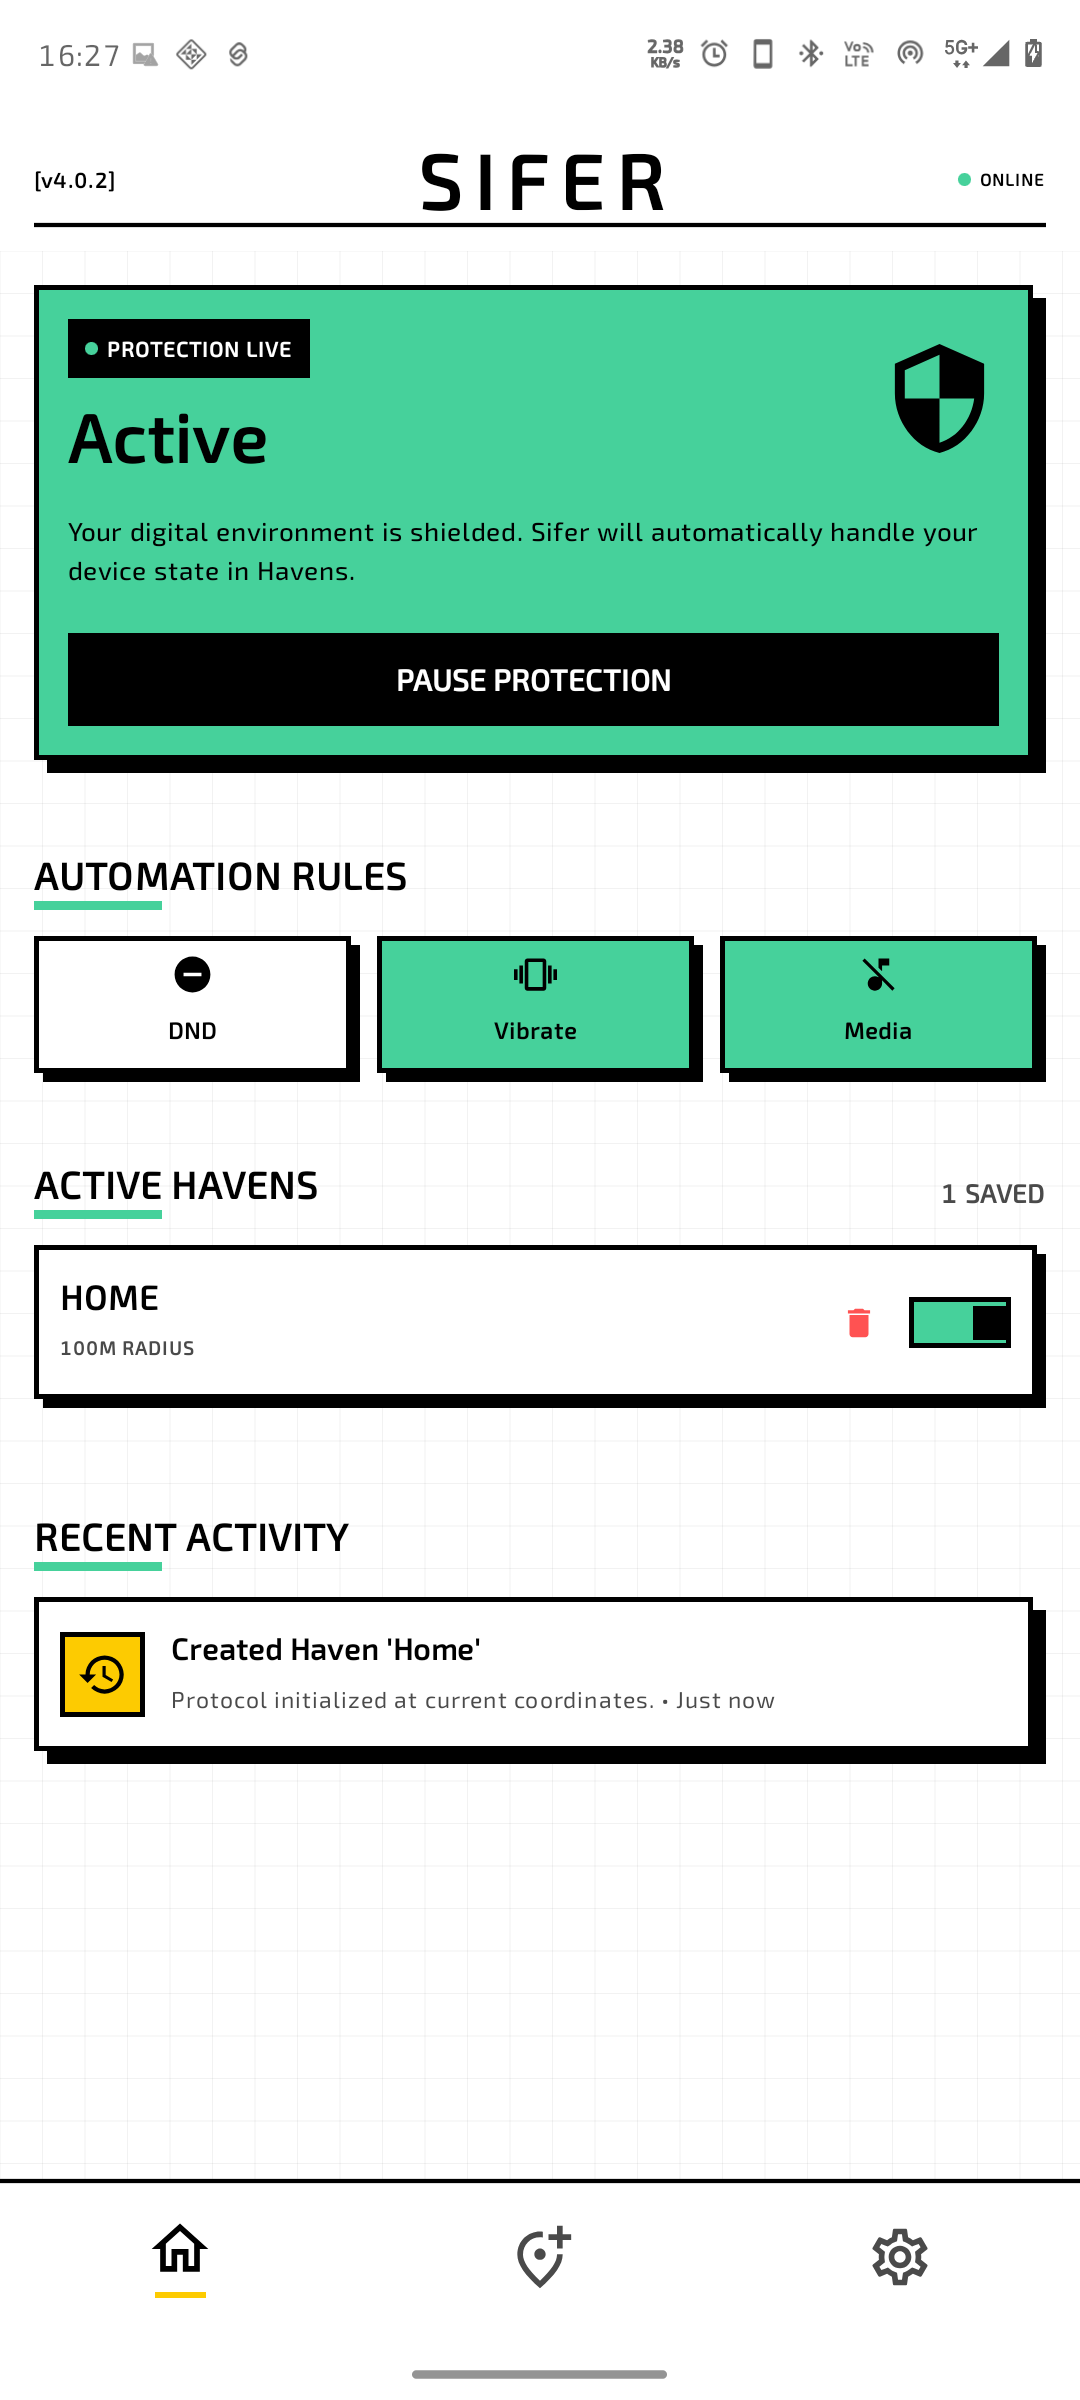
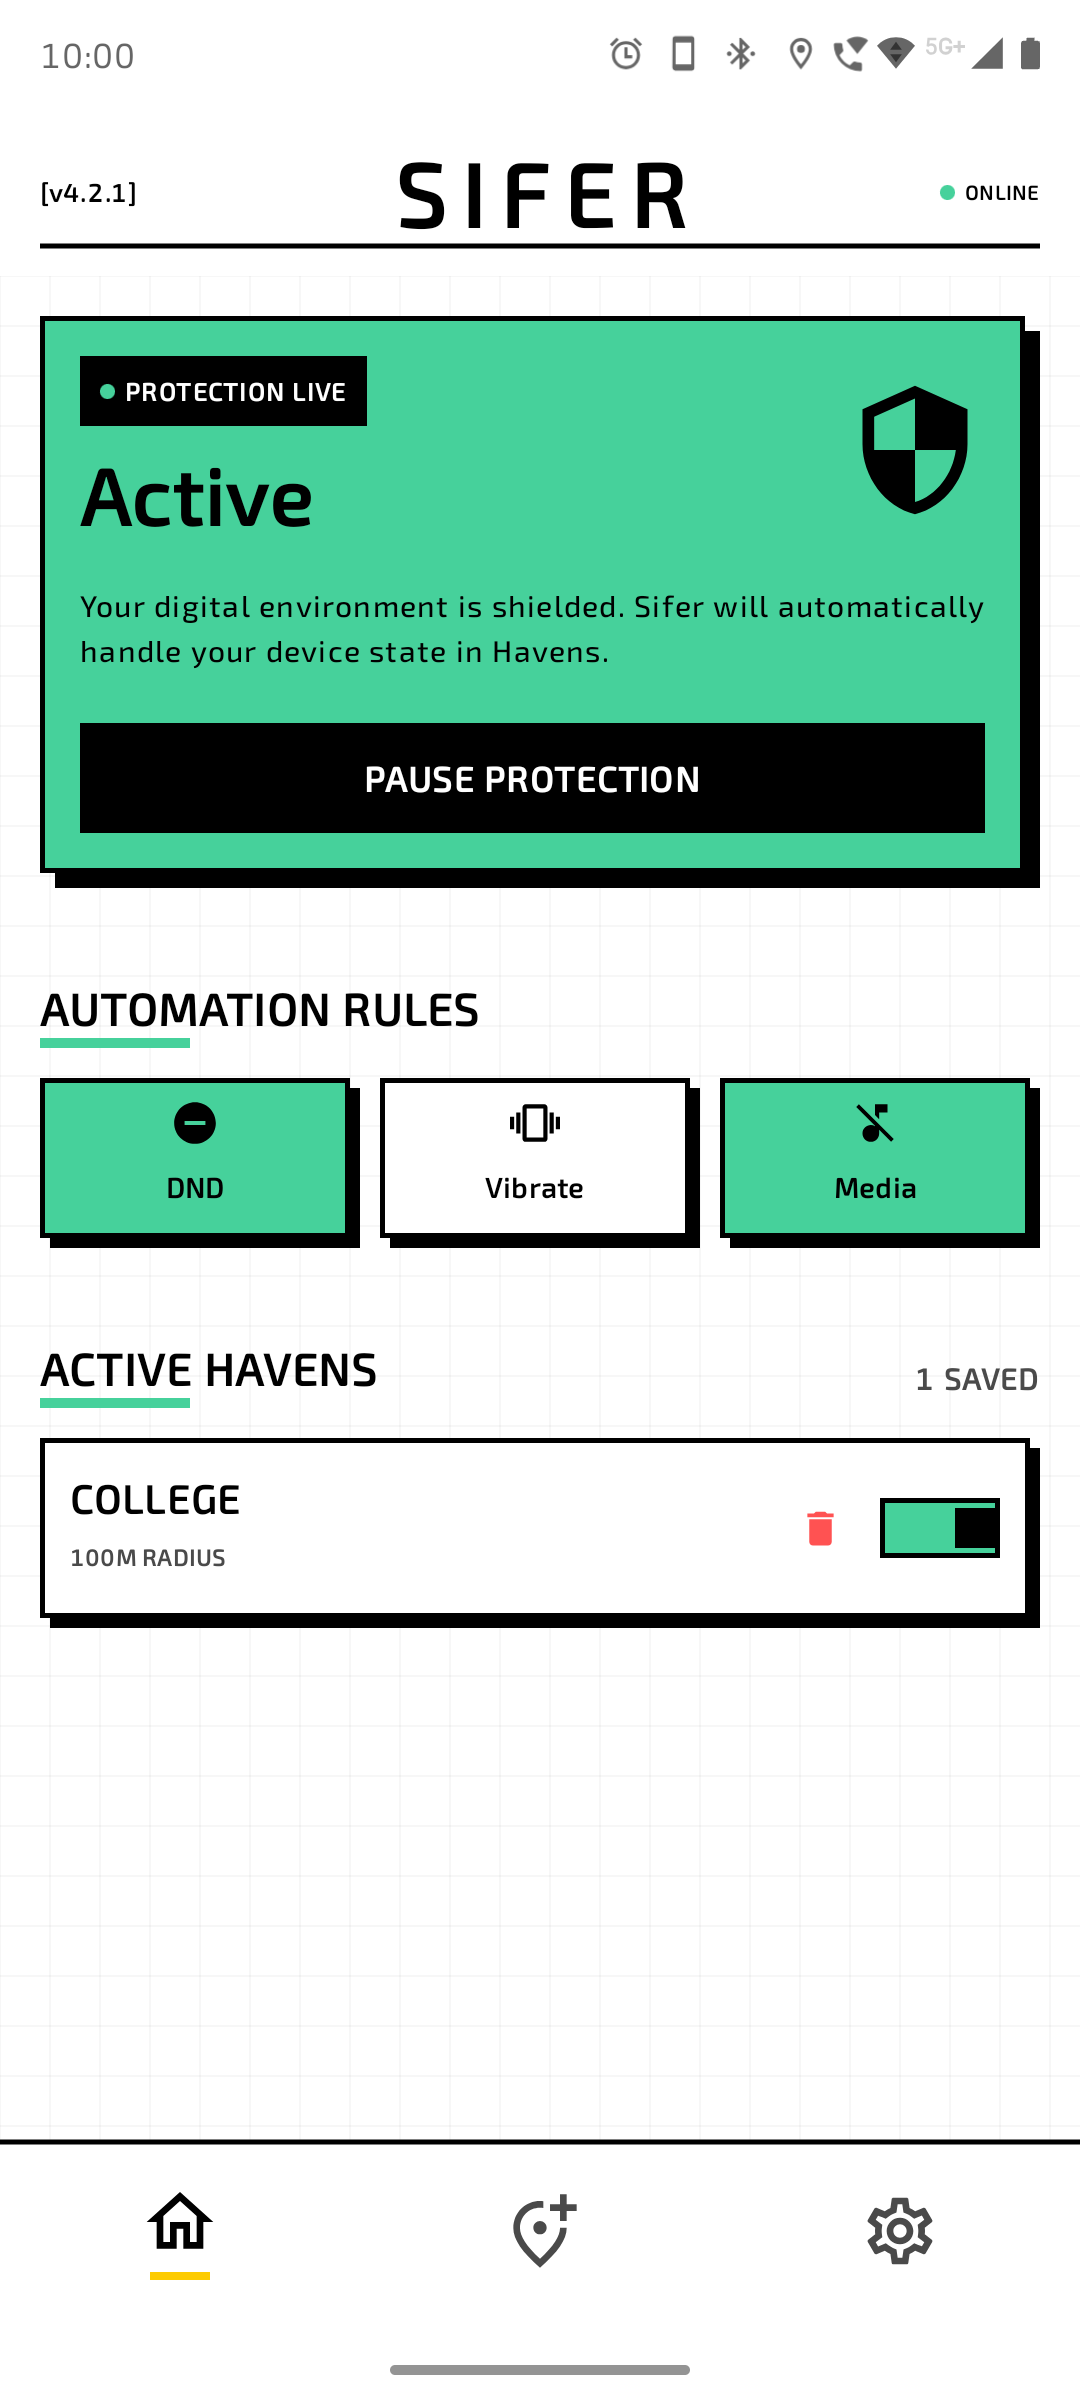
Updated Sifer images + insta handle url

diff --git a/src/components/dashboard/ContactPage.tsx b/src/components/dashboard/ContactPage.tsx
@@ -223,7 +223,7 @@ export const ContactPage = () => {
           </a>
 
           {/* Instagram Card */}
-          <a href="https://www.instagram.com/rohitks.md?igsh=MTU4c3hhMGI1eXdqMQ==" target="_blank" rel="noopener noreferrer" className="p-6 bg-[#0d0d0d] border border-white/5 rounded-xl flex items-center justify-between hover:border-white/10 transition-all group cursor-pointer cursor-target">
+          <a href="https://www.instagram.com/rohitks.2407?igsh=MTU4c3hhMGI1eXdqMQ==" target="_blank" rel="noopener noreferrer" className="p-6 bg-[#0d0d0d] border border-white/5 rounded-xl flex items-center justify-between hover:border-white/10 transition-all group cursor-pointer cursor-target">
             <div className="flex items-center gap-5">
               <div className="p-4 bg-red-500/10 text-red-500 rounded-lg">
                 <Instagram size={24} />
